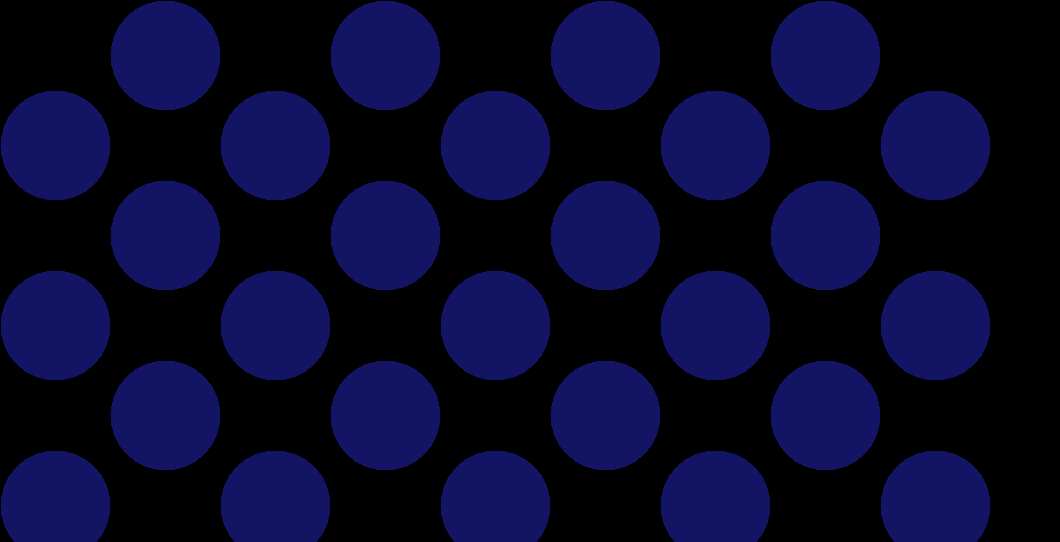
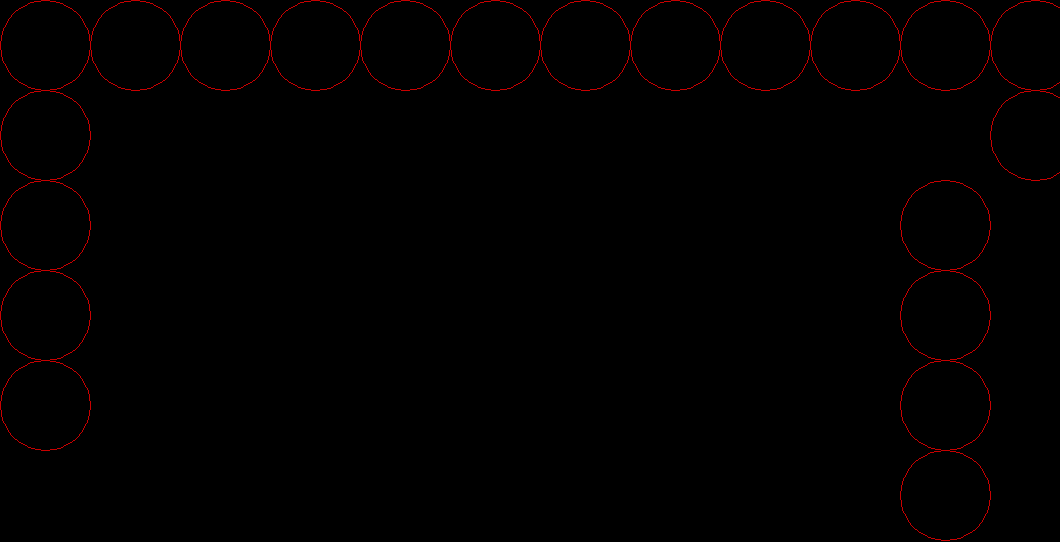
made progress toward bordering pattern

diff --git a/src/shapes/ShapeAbstract.java b/src/shapes/ShapeAbstract.java
@@ -1,5 +1,7 @@
 package shapes;
 
+import com.sun.org.apache.bcel.internal.generic.GETFIELD;
+
 public abstract class ShapeAbstract implements Shape {
 	private int amount = 0;
 	private int drawnAmount = 0;
@@ -13,10 +15,11 @@ public abstract class ShapeAbstract implements Shape {
 	private static int xCursor = 0;
 	private static int yCursor = 0;
 	private static int alternatingInt = 0;
+	private static int borderingInt = 0;
 	private static int crossAlternatingInt = 0;
 
 	public enum DrawPattern {
-		RANDOM, ALIGNED, ALTERNATING, CROSSALTERNATING
+		RANDOM, ALIGNED, ALTERNATING, BORDERING, CROSSALTERNATING
 	};
 
 	public int randomXIntegerInCanvas() {
@@ -35,7 +38,7 @@ public abstract class ShapeAbstract implements Shape {
 			if (alignedYIntegerInCanvas() != -1) {
 				xCursor = getWidth();
 			} else {
-				// Abort
+				// Stop
 				return -1;
 			}
 		}
@@ -46,7 +49,7 @@ public abstract class ShapeAbstract implements Shape {
 		if (xCursor >= canvasSize.getWidth()) {
 			yCursor += getHeight();
 			if (yCursor + getHeight() >= canvasSize.getHeight()) {
-				// Abort
+				// Stop
 				return -1;
 			}
 			return yCursor - getHeight();
@@ -66,7 +69,7 @@ public abstract class ShapeAbstract implements Shape {
 					alternatingInt++;
 				}
 			} else {
-				// Abort
+				// Stop
 				return -1;
 			}
 		}
@@ -78,10 +81,43 @@ public abstract class ShapeAbstract implements Shape {
 			// new line
 			yCursor += getHeight();
 			if (yCursor + getHeight() >= canvasSize.getHeight()) {
-				// Abort
+				// Stop
 				return -1;
 			}
 			return yCursor - getHeight();
+		}
+		return yCursor;
+	}
+
+	public int borderingXIntegerInCanvas() {
+		if (yCursor == 0 || yCursor >= (canvasSize.getHeight() - getHeight() * 2)) {
+			if (xCursor < canvasSize.getWidth()) {
+				xCursor += getWidth();
+			} else {
+				borderingInt = 1;
+			}
+		} else if (borderingInt == 1) {
+			// Left border
+			xCursor = getWidth();
+			borderingInt = 2;
+		} else if (borderingInt == 2) {
+			// Right border
+			while (xCursor < canvasSize.getWidth() - getWidth()) {
+				xCursor += getWidth();
+			}
+			borderingInt = 1;
+		}
+		return xCursor - getWidth();
+	}
+
+	public int borderingYIntegerInCanvas() {
+		if (borderingInt == 1) {
+			yCursor += getHeight();
+			xCursor = 0;
+		}
+		if (yCursor + getHeight() >= canvasSize.getHeight()) {
+			// Stop
+			return -1;
 		}
 		return yCursor;
 	}
@@ -107,6 +143,42 @@ public abstract class ShapeAbstract implements Shape {
 
 	public int crossAlternatingYIntegerInCanvas() {
 		return alternatingYIntegerInCanvas();
+	}
+
+	public int xSelection() {
+		if (pattern == DrawPattern.RANDOM) {
+			return randomXIntegerInCanvas();
+		} else if (pattern == DrawPattern.ALIGNED) {
+			return alignedXIntegerInCanvas();
+		} else if (pattern == DrawPattern.ALTERNATING) {
+			return alternatingXIntegerInCanvas();
+		} else if (pattern == DrawPattern.BORDERING) {
+			return borderingXIntegerInCanvas();
+		} else if (pattern == DrawPattern.CROSSALTERNATING) {
+			// The 2nd shape for cross alternating
+			if (crossAlternatingInt == -1) {
+				xCursor = getWidth();
+				crossAlternatingInt = 1;
+				return 0;
+			}
+			return crossAlternatingXIntegerInCanvas();
+		}
+		return 0;
+	}
+
+	public int ySelection() {
+		if (pattern == DrawPattern.RANDOM) {
+			return randomYIntegerInCanvas();
+		} else if (pattern == DrawPattern.ALIGNED) {
+			return alignedYIntegerInCanvas();
+		} else if (pattern == DrawPattern.ALTERNATING) {
+			return alternatingYIntegerInCanvas();
+		} else if (pattern == DrawPattern.BORDERING) {
+			return borderingYIntegerInCanvas();
+		} else if (pattern == DrawPattern.CROSSALTERNATING) {
+			return crossAlternatingYIntegerInCanvas();
+		}
+		return 0;
 	}
 
 	public int getAmount() {
@@ -149,38 +221,6 @@ public abstract class ShapeAbstract implements Shape {
 		ShapeAbstract.fill = fill;
 	}
 
-	public int xSelection() {
-		if (pattern == DrawPattern.RANDOM) {
-			return randomXIntegerInCanvas();
-		} else if (pattern == DrawPattern.ALIGNED) {
-			return alignedXIntegerInCanvas();
-		} else if (pattern == DrawPattern.ALTERNATING) {
-			return alternatingXIntegerInCanvas();
-		} else if (pattern == DrawPattern.CROSSALTERNATING) {
-			// The 2nd shape for cross alternating  
-			if (crossAlternatingInt == -1) {
-				xCursor = getWidth();
-				crossAlternatingInt = 1;
-				return 0;
-			}
-			return crossAlternatingXIntegerInCanvas();
-		}
-		return 0;
-	}
-
-	public int ySelection() {
-		if (pattern == DrawPattern.RANDOM) {
-			return randomYIntegerInCanvas();
-		} else if (pattern == DrawPattern.ALIGNED) {
-			return alignedYIntegerInCanvas();
-		} else if (pattern == DrawPattern.ALTERNATING) {
-			return alternatingYIntegerInCanvas();
-		} else if (pattern == DrawPattern.CROSSALTERNATING) {
-			return crossAlternatingYIntegerInCanvas();
-		}
-		return 0;
-	}
-
 	public static void setPattern(DrawPattern p) {
 		ShapeAbstract.pattern = p;
 	}
@@ -207,6 +247,14 @@ public abstract class ShapeAbstract implements Shape {
 
 	public static void setAlternatingInt(int alternatingInt) {
 		ShapeAbstract.alternatingInt = alternatingInt;
+	}
+
+	public static int getBorderingInt() {
+		return borderingInt;
+	}
+
+	public static void setBorderingInt(int borderingInt) {
+		ShapeAbstract.borderingInt = borderingInt;
 	}
 
 	public static int getCrossAlternatingInt() {

diff --git a/src/main/ShapePanel.java b/src/main/ShapePanel.java
@@ -288,6 +288,7 @@ public class ShapePanel extends JPanel {
 		patternSelector.addItem("Random");
 		patternSelector.addItem("Aligned");
 		patternSelector.addItem("Alternating");
+		patternSelector.addItem("Bordering");
 		patternSelector.addItem("Cross Alternating");
 		patternSelector.addActionListener(new ActionListener() {
 			@Override
@@ -298,6 +299,8 @@ public class ShapePanel extends JPanel {
 					ShapeAbstract.setPattern(ShapeAbstract.DrawPattern.ALIGNED);
 				} else if (patternSelector.getSelectedItem().equals("Alternating")) {
 					ShapeAbstract.setPattern(ShapeAbstract.DrawPattern.ALTERNATING);
+				} else if (patternSelector.getSelectedItem().equals("Bordering")) {
+					ShapeAbstract.setPattern(ShapeAbstract.DrawPattern.BORDERING);
 				} else if (patternSelector.getSelectedItem().equals("Cross Alternating")) {
 					ShapeAbstract.setPattern(ShapeAbstract.DrawPattern.CROSSALTERNATING);
 				}
@@ -599,6 +602,7 @@ public class ShapePanel extends JPanel {
 			ShapeAbstract.setXCursor(0);
 			ShapeAbstract.setYCursor(0);
 			ShapeAbstract.setAlternatingInt(0);
+			ShapeAbstract.setBorderingInt(0);
 			ShapeAbstract.setCrossAlternatingInt(-1);
 		}
 		textDisplay.setText("And.... Draw!");
